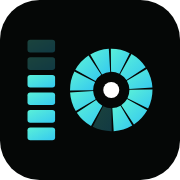
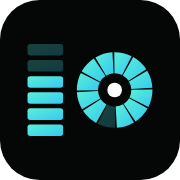
ditbo: medidor de la «i» a 280 de ancho (intermedio)
Entre el palo de la «i» (199) y la «I» de AItomat (361,6): más presencia
sin dejar de leerse como «i».

Claude-Session: https://claude.ai/code/session_01Ct51RYd75S8AEWDe9bRfpk

diff --git a/index.html b/index.html
@@ -164,7 +164,7 @@
     .smart-preloader{position:fixed;inset:0;z-index:10000;display:grid;place-items:center;overflow:hidden}
     .smart-preloader::after{content:"";position:absolute;inset:0;z-index:-2;background:#050706;transition:opacity .7s cubic-bezier(.33,0,.2,1) .08s}
     .smart-preloader::before{content:"";position:absolute;z-index:-1;width:min(86vw,780px);aspect-ratio:1;border-radius:50%;background:radial-gradient(circle,rgba(90,240,216,.06),rgba(90,240,216,.02) 42%,rgba(90,240,216,0) 70%);transition:opacity .45s ease}
-    .preloader-mark{--u:1ms;--mw:clamp(270px,56vw,620px);position:relative;z-index:1;transform-origin:50% 50%;width:var(--mw);aspect-ratio:2770.4/844.98;animation:plIn .32s cubic-bezier(.2,.8,.2,1) both}
+    .preloader-mark{--u:1ms;--mw:clamp(270px,56vw,620px);position:relative;z-index:1;transform-origin:50% 50%;width:var(--mw);aspect-ratio:2851.4/844.98;animation:plIn .32s cubic-bezier(.2,.8,.2,1) both}
     .pl-defs{position:absolute;width:0;height:0;overflow:hidden}
     .pl-group{position:absolute;inset:0;display:block;pointer-events:none}
     .pl-part{position:absolute;display:block}
@@ -345,9 +345,9 @@
   <div class="smart-preloader" id="smart-preloader" aria-hidden="true">
     <div class="preloader-mark" aria-hidden="true">
       <svg class="pl-defs" width="0" height="0" focusable="false"><linearGradient id="pl-grad" x1="0" y1="0" x2="1" y2="1"><stop offset="0" stop-color="#5af0d8"/><stop offset="1" stop-color="#35c9f0"/></linearGradient></svg>
-      <span class="pl-group pl-g-word"><svg class="pl-svg" viewBox="14.80 -20.24 2770.4 844.98" focusable="false"><path fill="#fff" transform="translate(60.0 748.0) scale(1 -1)" d="M259 -12Q189 -12 139.0 18.5Q89 49 62.5 110.5Q36 172 36 265Q36 357 62.5 418.0Q89 479 139.0 509.5Q189 540 259 540Q287 540 313.5 533.5Q340 527 362.5 513.5Q385 500 400 479H407V725H606V0H444L430 75H423Q395 30 353.0 9.0Q311 -12 259 -12ZM321 135Q352 135 371.5 150.0Q391 165 400.0 190.5Q409 216 409 247V280Q409 303 404.0 323.5Q399 344 388.5 359.5Q378 375 361.0 384.0Q344 393 321 393Q290 393 271.0 380.0Q252 367 243.5 344.0Q235 321 235 290V237Q235 206 243.5 183.0Q252 160 271.0 147.5Q290 135 321 135Z"/><path fill="#fff" transform="translate(962.0 748.0) scale(1 -1)" d="M284 -12Q230 -12 188.5 0.5Q147 13 124.0 44.0Q101 75 101 129V393H27V528H109L152 688H300V528H412V393H300V192Q300 158 311.0 140.5Q322 123 356 123H412V6Q396 1 372.5 -3.5Q349 -8 325.5 -10.0Q302 -12 284 -12Z"/><path fill="#fff" transform="translate(1406.0 748.0) scale(1 -1)" d="M408 -12Q357 -12 313.5 9.0Q270 30 244 75H237L223 0H61V725H260V479H267Q283 499 305.0 512.5Q327 526 353.5 533.0Q380 540 408 540Q478 540 528.0 509.5Q578 479 604.5 418.0Q631 357 631 265Q631 172 604.5 110.5Q578 49 528.0 18.5Q478 -12 408 -12ZM346 135Q377 135 396.0 147.5Q415 160 423.5 183.0Q432 206 432 237V290Q432 321 423.5 344.0Q415 367 396.0 380.0Q377 393 346 393Q323 393 306.0 384.0Q289 375 278.5 359.5Q268 344 263.0 323.5Q258 303 258 280V247Q258 216 267.0 190.5Q276 165 295.5 150.0Q315 135 346 135Z"/><rect fill="url(#pl-grad)" opacity=".26" x="728.0" y="23.0" width="199.0" height="91.3" rx="20.0"/><rect fill="url(#pl-grad)" opacity=".26" x="728.0" y="149.7" width="199.0" height="91.3" rx="20.0"/><rect fill="url(#pl-grad)" x="728.0" y="276.5" width="199.0" height="91.3" rx="20.0"/><rect fill="url(#pl-grad)" x="728.0" y="403.2" width="199.0" height="91.3" rx="20.0"/><rect fill="url(#pl-grad)" x="728.0" y="530.0" width="199.0" height="91.3" rx="20.0"/><rect fill="url(#pl-grad)" x="728.0" y="656.7" width="199.0" height="91.3" rx="20.0"/></svg></span>
-      <span class="pl-group pl-g-o"><svg class="pl-svg" viewBox="14.80 -20.24 2770.4 844.98" focusable="false"><path class="pl-ray-gap" fill="url(#pl-grad)" d="M2409.6 781.5A297.5 297.5 0 0 1 2273.3 750.0L2347.9 601.0A130.9 130.9 0 0 0 2407.9 614.9Z"/><path class="pl-ray pl-ray-0" fill="url(#pl-grad)" d="M2260.5 743.2A297.5 297.5 0 0 1 2158.1 647.8L2297.2 556.1A130.9 130.9 0 0 0 2342.2 598.0Z"/><path class="pl-ray pl-ray-1" fill="url(#pl-grad)" d="M2150.4 635.4A297.5 297.5 0 0 1 2109.5 501.6L2275.8 491.8A130.9 130.9 0 0 0 2293.8 550.6Z"/><path class="pl-ray pl-ray-2" fill="url(#pl-grad)" d="M2109.0 487.1A297.5 297.5 0 0 1 2140.5 350.8L2289.5 425.4A130.9 130.9 0 0 0 2275.6 485.4Z"/><path class="pl-ray pl-ray-3" fill="url(#pl-grad)" d="M2147.3 338.0A297.5 297.5 0 0 1 2242.7 235.6L2334.4 374.7A130.9 130.9 0 0 0 2292.5 419.7Z"/><path class="pl-ray pl-ray-4" fill="url(#pl-grad)" d="M2255.1 227.9A297.5 297.5 0 0 1 2388.9 187.0L2398.7 353.3A130.9 130.9 0 0 0 2339.9 371.3Z"/><path class="pl-ray pl-ray-5" fill="url(#pl-grad)" d="M2403.4 186.5A297.5 297.5 0 0 1 2539.7 218.0L2465.1 367.0A130.9 130.9 0 0 0 2405.1 353.1Z"/><path class="pl-ray pl-ray-6" fill="url(#pl-grad)" d="M2552.5 224.8A297.5 297.5 0 0 1 2654.9 320.2L2515.8 411.9A130.9 130.9 0 0 0 2470.8 370.0Z"/><path class="pl-ray pl-ray-7" fill="url(#pl-grad)" d="M2662.6 332.6A297.5 297.5 0 0 1 2703.5 466.4L2537.2 476.2A130.9 130.9 0 0 0 2519.2 417.4Z"/><path class="pl-ray pl-ray-8" fill="url(#pl-grad)" d="M2704.0 480.9A297.5 297.5 0 0 1 2672.5 617.2L2523.5 542.6A130.9 130.9 0 0 0 2537.4 482.6Z"/><path class="pl-ray pl-ray-9" fill="url(#pl-grad)" d="M2665.7 630.0A297.5 297.5 0 0 1 2570.3 732.4L2478.6 593.3A130.9 130.9 0 0 0 2520.5 548.3Z"/><path class="pl-ray pl-ray-10" fill="url(#pl-grad)" d="M2557.9 740.1A297.5 297.5 0 0 1 2424.1 781.0L2414.3 614.7A130.9 130.9 0 0 0 2473.1 596.7Z"/></svg></span>
-      <span class="pl-group pl-g-dot"><span class="pl-part pl-dot-glow" style="left:79.6889%;top:37.8991%;width:13.2833%;height:43.5513%"></span><svg class="pl-svg" viewBox="14.80 -20.24 2770.4 844.98" focusable="false"><circle class="preloader-dot pl-dot" cx="2406.5" cy="484.0" r="57.6" fill="#fff" stroke="#050706" stroke-width="32" paint-order="stroke"/></svg></span>
+      <span class="pl-group pl-g-word"><svg class="pl-svg" viewBox="14.80 -20.24 2851.4 844.98" focusable="false"><path fill="#fff" transform="translate(60.0 748.0) scale(1 -1)" d="M259 -12Q189 -12 139.0 18.5Q89 49 62.5 110.5Q36 172 36 265Q36 357 62.5 418.0Q89 479 139.0 509.5Q189 540 259 540Q287 540 313.5 533.5Q340 527 362.5 513.5Q385 500 400 479H407V725H606V0H444L430 75H423Q395 30 353.0 9.0Q311 -12 259 -12ZM321 135Q352 135 371.5 150.0Q391 165 400.0 190.5Q409 216 409 247V280Q409 303 404.0 323.5Q399 344 388.5 359.5Q378 375 361.0 384.0Q344 393 321 393Q290 393 271.0 380.0Q252 367 243.5 344.0Q235 321 235 290V237Q235 206 243.5 183.0Q252 160 271.0 147.5Q290 135 321 135Z"/><path fill="#fff" transform="translate(1043.0 748.0) scale(1 -1)" d="M284 -12Q230 -12 188.5 0.5Q147 13 124.0 44.0Q101 75 101 129V393H27V528H109L152 688H300V528H412V393H300V192Q300 158 311.0 140.5Q322 123 356 123H412V6Q396 1 372.5 -3.5Q349 -8 325.5 -10.0Q302 -12 284 -12Z"/><path fill="#fff" transform="translate(1487.0 748.0) scale(1 -1)" d="M408 -12Q357 -12 313.5 9.0Q270 30 244 75H237L223 0H61V725H260V479H267Q283 499 305.0 512.5Q327 526 353.5 533.0Q380 540 408 540Q478 540 528.0 509.5Q578 479 604.5 418.0Q631 357 631 265Q631 172 604.5 110.5Q578 49 528.0 18.5Q478 -12 408 -12ZM346 135Q377 135 396.0 147.5Q415 160 423.5 183.0Q432 206 432 237V290Q432 321 423.5 344.0Q415 367 396.0 380.0Q377 393 346 393Q323 393 306.0 384.0Q289 375 278.5 359.5Q268 344 263.0 323.5Q258 303 258 280V247Q258 216 267.0 190.5Q276 165 295.5 150.0Q315 135 346 135Z"/><rect fill="url(#pl-grad)" opacity=".26" x="728.0" y="23.0" width="280.0" height="91.3" rx="22.0"/><rect fill="url(#pl-grad)" opacity=".26" x="728.0" y="149.7" width="280.0" height="91.3" rx="22.0"/><rect fill="url(#pl-grad)" x="728.0" y="276.5" width="280.0" height="91.3" rx="22.0"/><rect fill="url(#pl-grad)" x="728.0" y="403.2" width="280.0" height="91.3" rx="22.0"/><rect fill="url(#pl-grad)" x="728.0" y="530.0" width="280.0" height="91.3" rx="22.0"/><rect fill="url(#pl-grad)" x="728.0" y="656.7" width="280.0" height="91.3" rx="22.0"/></svg></span>
+      <span class="pl-group pl-g-o"><svg class="pl-svg" viewBox="14.80 -20.24 2851.4 844.98" focusable="false"><path class="pl-ray-gap" fill="url(#pl-grad)" d="M2490.6 781.5A297.5 297.5 0 0 1 2354.3 750.0L2428.9 601.0A130.9 130.9 0 0 0 2488.9 614.9Z"/><path class="pl-ray pl-ray-0" fill="url(#pl-grad)" d="M2341.5 743.2A297.5 297.5 0 0 1 2239.1 647.8L2378.2 556.1A130.9 130.9 0 0 0 2423.2 598.0Z"/><path class="pl-ray pl-ray-1" fill="url(#pl-grad)" d="M2231.4 635.4A297.5 297.5 0 0 1 2190.5 501.6L2356.8 491.8A130.9 130.9 0 0 0 2374.8 550.6Z"/><path class="pl-ray pl-ray-2" fill="url(#pl-grad)" d="M2190.0 487.1A297.5 297.5 0 0 1 2221.5 350.8L2370.5 425.4A130.9 130.9 0 0 0 2356.6 485.4Z"/><path class="pl-ray pl-ray-3" fill="url(#pl-grad)" d="M2228.3 338.0A297.5 297.5 0 0 1 2323.7 235.6L2415.4 374.7A130.9 130.9 0 0 0 2373.5 419.7Z"/><path class="pl-ray pl-ray-4" fill="url(#pl-grad)" d="M2336.1 227.9A297.5 297.5 0 0 1 2469.9 187.0L2479.7 353.3A130.9 130.9 0 0 0 2420.9 371.3Z"/><path class="pl-ray pl-ray-5" fill="url(#pl-grad)" d="M2484.4 186.5A297.5 297.5 0 0 1 2620.7 218.0L2546.1 367.0A130.9 130.9 0 0 0 2486.1 353.1Z"/><path class="pl-ray pl-ray-6" fill="url(#pl-grad)" d="M2633.5 224.8A297.5 297.5 0 0 1 2735.9 320.2L2596.8 411.9A130.9 130.9 0 0 0 2551.8 370.0Z"/><path class="pl-ray pl-ray-7" fill="url(#pl-grad)" d="M2743.6 332.6A297.5 297.5 0 0 1 2784.5 466.4L2618.2 476.2A130.9 130.9 0 0 0 2600.2 417.4Z"/><path class="pl-ray pl-ray-8" fill="url(#pl-grad)" d="M2785.0 480.9A297.5 297.5 0 0 1 2753.5 617.2L2604.5 542.6A130.9 130.9 0 0 0 2618.4 482.6Z"/><path class="pl-ray pl-ray-9" fill="url(#pl-grad)" d="M2746.7 630.0A297.5 297.5 0 0 1 2651.3 732.4L2559.6 593.3A130.9 130.9 0 0 0 2601.5 548.3Z"/><path class="pl-ray pl-ray-10" fill="url(#pl-grad)" d="M2638.9 740.1A297.5 297.5 0 0 1 2505.1 781.0L2495.3 614.7A130.9 130.9 0 0 0 2554.1 596.7Z"/></svg></span>
+      <span class="pl-group pl-g-dot"><span class="pl-part pl-dot-glow" style="left:80.2658%;top:37.8991%;width:12.9059%;height:43.5513%"></span><svg class="pl-svg" viewBox="14.80 -20.24 2851.4 844.98" focusable="false"><circle class="preloader-dot pl-dot" cx="2487.5" cy="484.0" r="57.6" fill="#fff" stroke="#050706" stroke-width="32" paint-order="stroke"/></svg></span>
     </div>
   </div>
   <a class="skip-link" href="#proceso">Saltar al contenido</a>
@@ -364,7 +364,7 @@
   </div>
 
   <nav class="site-nav" aria-label="Principal">
-    <a class="brand" href="#inicio" aria-label="ditbo, inicio"><img class="brand-wordmark" src="brand/logo/logo-ditbo.svg" alt="ditbo" width="2770" height="845" fetchpriority="high"></a>
+    <a class="brand" href="#inicio" aria-label="ditbo, inicio"><img class="brand-wordmark" src="brand/logo/logo-ditbo.svg" alt="ditbo" width="2851" height="845" fetchpriority="high"></a>
     <div class="nav-links" id="primary-menu">
       <a href="#proceso">Sistema</a>
       <a href="#inbox">Inbox</a>
@@ -417,7 +417,7 @@
       <div class="os-window" id="discovery-board">
         <div class="os-bar">
           <span class="traffic red"></span><span class="traffic yellow"></span><span class="traffic green"></span>
-          <strong class="os-brand"><img src="brand/logo/logo-ditbo.svg" alt="ditbo" width="2770" height="845"><span>OS &mdash; n&uacute;cleo de decisi&oacute;n</span></strong>
+          <strong class="os-brand"><img src="brand/logo/logo-ditbo.svg" alt="ditbo" width="2851" height="845"><span>OS &mdash; n&uacute;cleo de decisi&oacute;n</span></strong>
           <em class="os-live"><i></i> en vivo</em>
         </div>
         <div class="os-tabs" id="system-cases" role="tablist" aria-label="Casos que resuelve ditbo">
@@ -469,7 +469,7 @@
       <div class="mail-app liquid-glass" aria-label="Bandeja inteligente de ditbo">
         <div class="mail-titlebar">
           <span class="traffic red"></span><span class="traffic yellow"></span><span class="traffic green"></span>
-          <strong class="mail-brand"><img src="brand/logo/logo-ditbo.svg" alt="ditbo" width="2770" height="845"><span aria-hidden="true">&middot;</span><span>Bandeja de la cl&iacute;nica</span></strong>
+          <strong class="mail-brand"><img src="brand/logo/logo-ditbo.svg" alt="ditbo" width="2851" height="845"><span aria-hidden="true">&middot;</span><span>Bandeja de la cl&iacute;nica</span></strong>
         </div>
         <div class="mail-body">
           <aside class="mail-sidebar">
@@ -586,7 +586,7 @@
               <span class="wa-back" aria-hidden="true"></span>
               <span class="wa-avatar" aria-hidden="true"><img src="brand/icono/icono-ditbo.svg" alt=""></span>
               <div class="wa-contact">
-                <strong class="wa-brand"><img src="brand/logo/logo-ditbo.svg" alt="ditbo" width="2770" height="845"></strong>
+                <strong class="wa-brand"><img src="brand/logo/logo-ditbo.svg" alt="ditbo" width="2851" height="845"></strong>
                 <small id="story-status">en l&iacute;nea</small>
               </div>
               <span class="wa-ic wa-video" aria-hidden="true"></span>
@@ -975,7 +975,7 @@
 
   <footer class="site-footer">
     <div class="footer-marca">
-      <a class="brand" href="#inicio"><img class="brand-wordmark" src="brand/logo/logo-ditbo.svg" alt="ditbo" width="2770" height="845"></a>
+      <a class="brand" href="#inicio"><img class="brand-wordmark" src="brand/logo/logo-ditbo.svg" alt="ditbo" width="2851" height="845"></a>
       <p>Recepci&oacute;n automatizada para cl&iacute;nicas dentales.</p>
       <a class="footer-demo" href="#contacto" data-demo-open>Pedir demo</a>
     </div>
@@ -1009,7 +1009,7 @@
         <svg viewBox="0 0 24 24" width="16" height="16" fill="none" stroke="currentColor" stroke-width="2.2" stroke-linecap="round"><path d="M6 6l12 12M18 6 6 18"/></svg>
       </button>
       <div class="demo-modal-aside">
-        <img class="demo-modal-marca" src="brand/logo/logo-ditbo.svg" alt="ditbo" width="2770" height="845">
+        <img class="demo-modal-marca" src="brand/logo/logo-ditbo.svg" alt="ditbo" width="2851" height="845">
         <p class="eyebrow"><span></span> Demo</p>
         <h2 id="demo-modal-title">Tu recepci&oacute;n puede empezar a respirar.</h2>
         <p class="demo-modal-lead">Vemos tu operativa real y te enseñamos dónde puede entrar ditb<span class="b-ai">o</span>.</p>

diff --git a/legal/cookies.html b/legal/cookies.html
@@ -20,7 +20,7 @@
 <body>
   <main class="legal-shell">
     <nav class="legal-nav" aria-label="Legal">
-      <a class="brand" href="../index.html" aria-label="ditbo, inicio"><img class="brand-wordmark" src="../brand/logo/logo-ditbo.svg" alt="ditbo" width="2770" height="845"></a>
+      <a class="brand" href="../index.html" aria-label="ditbo, inicio"><img class="brand-wordmark" src="../brand/logo/logo-ditbo.svg" alt="ditbo" width="2851" height="845"></a>
       <div class="legal-links">
         <a href="../integraciones.html">Integraciones</a>
         <a href="../como-funciona.html">Cómo funciona</a>

diff --git a/legal/privacidad.html b/legal/privacidad.html
@@ -20,7 +20,7 @@
 <body>
   <main class="legal-shell">
     <nav class="legal-nav" aria-label="Legal">
-      <a class="brand" href="../index.html" aria-label="ditbo, inicio"><img class="brand-wordmark" src="../brand/logo/logo-ditbo.svg" alt="ditbo" width="2770" height="845"></a>
+      <a class="brand" href="../index.html" aria-label="ditbo, inicio"><img class="brand-wordmark" src="../brand/logo/logo-ditbo.svg" alt="ditbo" width="2851" height="845"></a>
       <div class="legal-links">
         <a href="../integraciones.html">Integraciones</a>
         <a href="../como-funciona.html">Cómo funciona</a>

diff --git a/legal/terminos.html b/legal/terminos.html
@@ -20,7 +20,7 @@
 <body>
   <main class="legal-shell">
     <nav class="legal-nav" aria-label="Legal">
-      <a class="brand" href="../index.html" aria-label="ditbo, inicio"><img class="brand-wordmark" src="../brand/logo/logo-ditbo.svg" alt="ditbo" width="2770" height="845"></a>
+      <a class="brand" href="../index.html" aria-label="ditbo, inicio"><img class="brand-wordmark" src="../brand/logo/logo-ditbo.svg" alt="ditbo" width="2851" height="845"></a>
       <div class="legal-links">
         <a href="../integraciones.html">Integraciones</a>
         <a href="../como-funciona.html">Cómo funciona</a>

diff --git a/integraciones.html b/integraciones.html
@@ -37,7 +37,7 @@
 <body>
   <main class="legal-shell">
     <nav class="legal-nav" aria-label="Navegación">
-      <a class="brand" href="index.html" aria-label="ditbo, inicio"><img class="brand-wordmark" src="brand/logo/logo-ditbo.svg" alt="ditbo" width="2770" height="845"></a>
+      <a class="brand" href="index.html" aria-label="ditbo, inicio"><img class="brand-wordmark" src="brand/logo/logo-ditbo.svg" alt="ditbo" width="2851" height="845"></a>
       <div class="legal-links">
         <a href="como-funciona.html">Cómo funciona</a>
         <a href="index.html#precio">Precio</a>

diff --git a/como-funciona.html b/como-funciona.html
@@ -37,7 +37,7 @@
 <body>
   <main class="legal-shell">
     <nav class="legal-nav" aria-label="Navegación">
-      <a class="brand" href="index.html" aria-label="ditbo, inicio"><img class="brand-wordmark" src="brand/logo/logo-ditbo.svg" alt="ditbo" width="2770" height="845"></a>
+      <a class="brand" href="index.html" aria-label="ditbo, inicio"><img class="brand-wordmark" src="brand/logo/logo-ditbo.svg" alt="ditbo" width="2851" height="845"></a>
       <div class="legal-links">
         <a href="integraciones.html">Integraciones</a>
         <a href="index.html#precio">Precio</a>

diff --git a/css/refresh.css b/css/refresh.css
@@ -1020,7 +1020,7 @@ main > section.hero { padding-block: clamp(7rem, 14vh, 11rem) clamp(5rem, 10vh, 
   display: block;
   width: 79px;
   height: auto;
-  aspect-ratio: 2770.4 / 844.98;
+  aspect-ratio: 2851.4 / 844.98;
   object-fit: contain;
   object-position: center;
   margin-bottom: 1.4rem;
